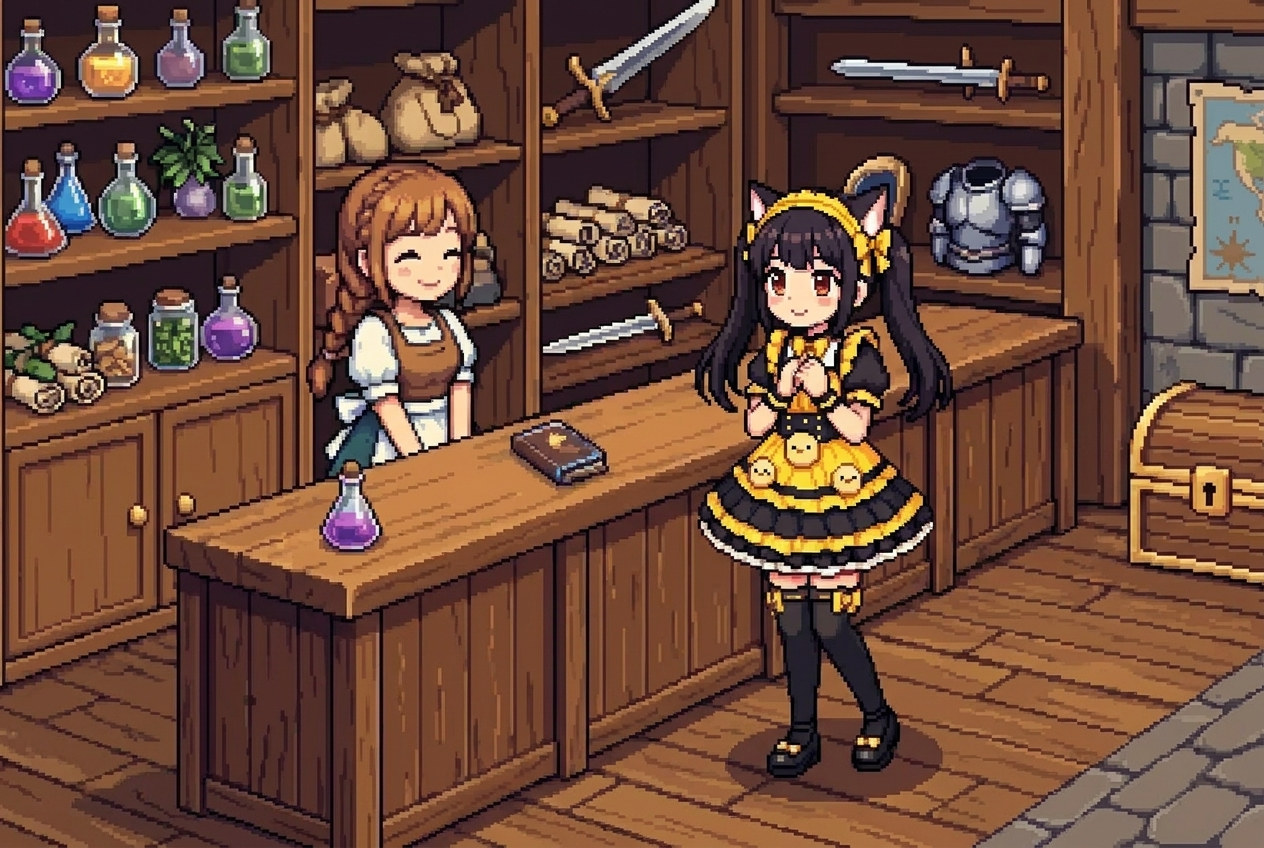
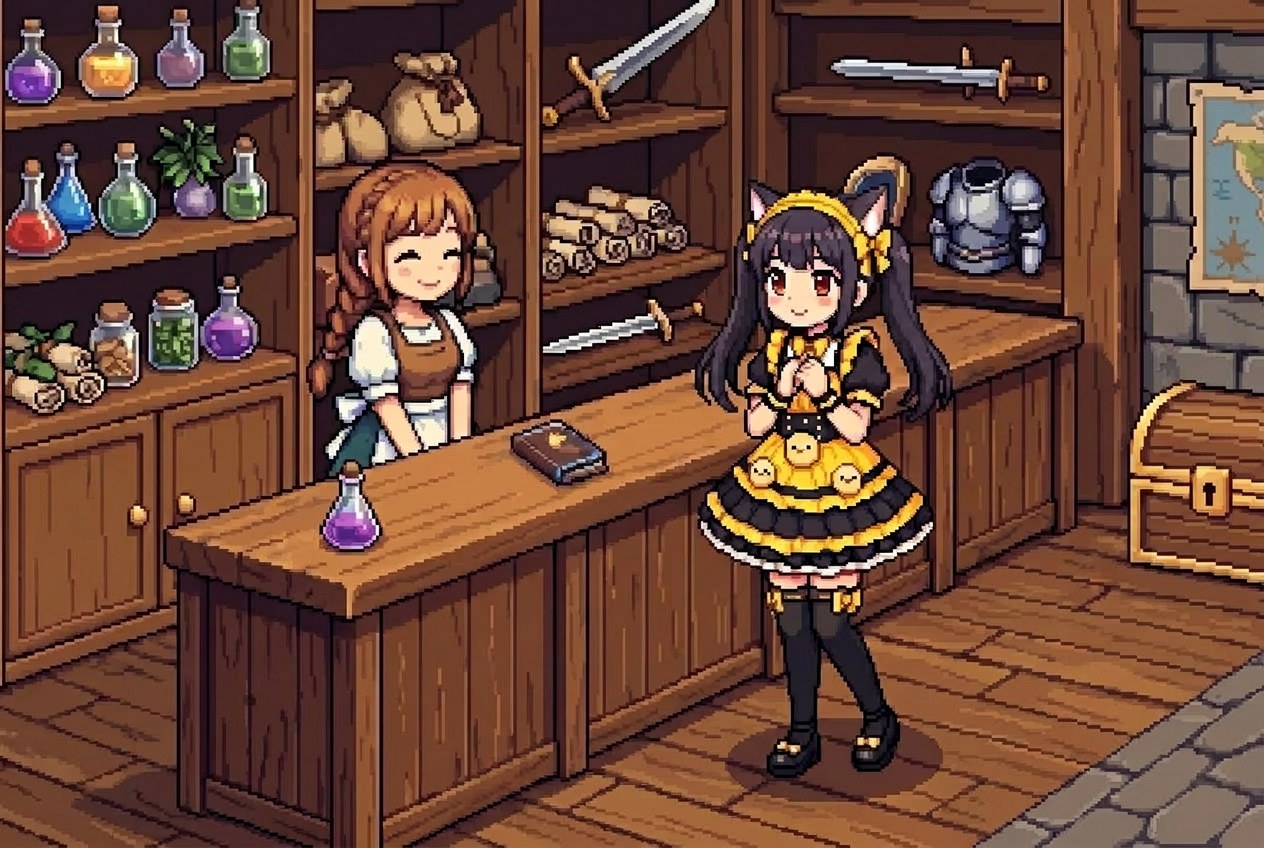
Ver.1.706: 一覧比較で出た手直し2件（title_shop を採用版Cへ差し替え・shop02の髪の照りを修正）
- title_shop.jpg: 1.703で候補Bを置き間違えていた。正しい採用版は候補C（金貨を店員に
  差し出している＝「お金を持っている方が正しい」）。置き間違え版は _raw に退避
- shop02.jpg（購入成功）: 髪の明部だけが赤茶に寄っていて1枚だけ茶髪に見えていた
  （#5e4146 紫み+5/赤み+24 → #5b4b56 +11/+5）。ポーズと表情は採用済みのまま
  --set=hairfix で髪だけ作り直した
- ART_STYLE.md に「💜髪の色は明部（照り）で検品する」を追記（平均色では差が出ない）
- tools/piyo-cuts-sheet.mjs を追加＝採用中のぴよ氏15枚の一覧＋顔だけ同倍率の比較シート

diff --git a/index.html b/index.html
@@ -76,7 +76,7 @@
                 box-sizing: border-box;
             }
             body::after {
-                content: "Ver.1.705";
+                content: "Ver.1.706";
                 position: fixed;
                 bottom: 8px; right: 10px;
                 color: rgba(255,255,255,0.5);
@@ -982,7 +982,7 @@
                     color: #fff; font-size: clamp(7px, 1.2vw, 12px);
                     text-shadow: 2px 2px 4px rgba(0,0,0,0.8);
                     font-weight: bold;">
-                    <span style="background: rgba(0,0,0,0.4); padding: 2px 6px; border-radius: 5px;">Ver.1.705</span>
+                    <span style="background: rgba(0,0,0,0.4); padding: 2px 6px; border-radius: 5px;">Ver.1.706</span>
                 </div>
 
                 <!-- クレジット：右下 -->

diff --git a/HANDOFF.md b/HANDOFF.md
@@ -4,7 +4,7 @@
 
 ---
 
-## 🎨 Ver.1.698〜1.705 — 一枚絵の「絵のタッチ統一」監査（2026-07-31）
+## 🎨 Ver.1.698〜1.706 — 一枚絵の「絵のタッチ統一」監査（2026-07-31）
 
 **基準は `ART_STYLE.md`（この監査で作った文書。キャラの絵の正）／検品ツールは `tools/measure-grain.mjs`。**
 生成は Gemini のみ。ツールは `tools/gemini-*.mjs`（画像ごとに1本ずつ残してある）。
@@ -60,9 +60,31 @@
   ⚠**「❤ HPが◯かいふく！」のテロップは絵の下から約12%に乗る**＝スカートのあたりに重なる（顔は隠れない）。
   作り直す時は**下15%を無地にしておく**とテロップが読みやすい
 
+### 🔍 Ver.1.706 — 一覧で見比べて出た手直し2件（2026-07-31）
+
+`tools/piyo-cuts-sheet.mjs` で**採用中のぴよ氏15枚を一覧＋顔だけ同倍率**で並べたところ、ユーザーが2件指摘した。
+
+1. **`title_shop.jpg` が採用したものと違っていた**（1.703 の置き間違い）
+   - 入っていたのは候補**B**（巾着を持つ・`_raw/tshop_b_crop.png`）。**正しくは候補C**（`_raw/tshop_c_crop.png`）
+   - ✅ユーザーの判断基準＝「**お金を持っている方が正しい**」（Cは金貨を店員に差し出している）
+   - 置き間違えた版は `_raw/title_shop_B_placed_by_mistake.jpg` に退避
+   - ⚠**教訓**: 候補を crop まで作って複数残すと置き間違える。`_raw/ADOPTED_*` の命名で採用版を明示すること
+2. **`shop02`（成功時）だけ髪が茶色に見えた** → `--set=hairfix` で修正
+   - **平均色では差が出ず、明部（照り）だけが赤茶**だった。基準と検品手順は
+     `ART_STYLE.md`「💜髪の色は明部（照り）で検品する」に記載
+   - ✅ブラウザ実測で両方の差し替えを確認（title_shop は表示 528×393・切れ落ちなし／shop02 は 571×393）
+
+**それ以外の13枚はユーザーOK。** 一覧で浮いていた未着手3枚（`special_cutin` / `eyes_closeup` / `icon-1024`）は下記へ。
+
 ### ⏭ 次セッションに引き継ぐこと
 
-1. **店内の店員（茶髪三つ編み）と UI アイコン `keeper_stage.png` が別人**（1.704で発見・保留）
+1. **絵柄が浮いている未着手3枚**（1.706の一覧比較で判明・ユーザーは「それ以外はOK」と判断）
+   - **`special_cutin.png`（ぴよフラッシュ）** ＝ 口を大きく開けて歯が見え、目が細い。可愛さ5点に正面から反する**最優先**
+   - **`eyes_closeup.png`** ＝ 虹彩が**金/琥珀**（正は暗い赤茶）＋ザラついたノイズ
+   - **`icon-1024.png`（アプリアイコン）** ＝ 純黒の輪郭＋平らな塗りで別絵柄。
+     ⚠**ストア掲載中の資産**なのでスクリーンショットとの整合と審査を考えてから動かす
+   - `tutorial_clear.jpg` は**目を閉じている**（そばで確立した「嬉しい表情でも目は開ける」を当てるなら候補）
+2. **店内の店員（茶髪三つ編み）と UI アイコン `keeper_stage.png` が別人**（1.704で発見・保留）
    - アイコンは**短い暗紫の髪＋青い目**で、一枚絵の店員と一致していない（老婆側は `keeper_crone.png` で一致済み）
    - ✅**1.704 ではユーザー判断で「店員は現行を活かす」**＝直さなかった。直すなら
      `tools/gemini-keeper-crone.mjs` と同じ手順で**アイコンを絵に合わせて作り直す**のが筋

diff --git a/ART_STYLE.md b/ART_STYLE.md
@@ -234,11 +234,35 @@
 | 部位 | 値 |
 |---|---|
 | 黒（髪・衣装・ニーソ） | **`#3A313F` 前後**（影 `#251C20`）＝**純黒で塗らない。紫みのチャコール** |
+| 髪の**明部（照り）** | **`#4E3F4D` 前後**＝**紫み(B-G)+12〜+20／赤み(R-B) 0前後**（下記の検品） |
 | 黄（スカート・胸当て・飾り） | **`#F9E06A` 前後**（平均 `#ECCA62`）＝金色寄りのレモンイエロー |
 | 肌 | **`#F8E7CD`** |
 | 瞳 | `#4B1E18` 〜 `#2D1209`（暗い赤茶） |
 | ネコ耳の内側・襟 | `#FCF4F1`（ほぼ白） |
 | 外周のふち | **`#F3CEC8`**（淡いピンクの発光） |
+
+### 💜 髪の色は「明部（照り）」で検品する（2026-07-31・ユーザー指摘で判明）
+
+⚠**髪の平均色は揃っているのに、並べると1枚だけ髪が違って見える**ことがある（`shop02` 1.704 で実際に起きた。
+ユーザー指摘「**成功時の髪の色が違うのが気になる**」）。原因は**平均ではなく明部（照り）の色**。
+
+| | 髪の明部 | 紫み(B-G) | 赤み(R-B) | |
+|---|---|---|---|---|
+| `title.jpg`（基準） | `#4e3f4d` | +14 | +1 | |
+| `shop01` | `#4f434f` | +12 | 0 | |
+| ~~`shop02`（1.704）~~ | `#5e4146` | **+5** | **+24** | ❌ 照りが赤茶＝1枚だけ茶髪に見えた |
+| `shop02`（1.706 修正後） | `#5b4b56` | +11 | +5 | ✅ |
+| `shop04` | `#573f4d` | +14 | +10 | ✅ |
+
+→ **合格の目安＝紫み(B-G) +10 以上／赤み(R-B) +15 未満。** 赤みが +20 を超えると茶髪に見える。
+**平均値では差が出ない**（1.704版の平均は `#3e2b30` で他と大差なかった）ので、**明部だけを測る**こと。
+
+**検品のやり方**（head box 内で、明るさ30〜120かつ彩度差<55の画素＝髪だけを拾い、明るい側10%の代表色を見る）:
+```
+node -e "…" # tools/piyo-cuts-sheet.mjs の face box を使って上位10%の色を出す
+```
+**直し方＝`gemini-shop-scene.mjs --set=hairfix`**。⚠**ポーズと表情は採用済みのものを参照2で固定**し、
+「直すのは髪の色だけ」と明示して作り直す（芝居を作り直させない）。
 
 ## 描き方の癖（統一性の監査で効くところ）
 
